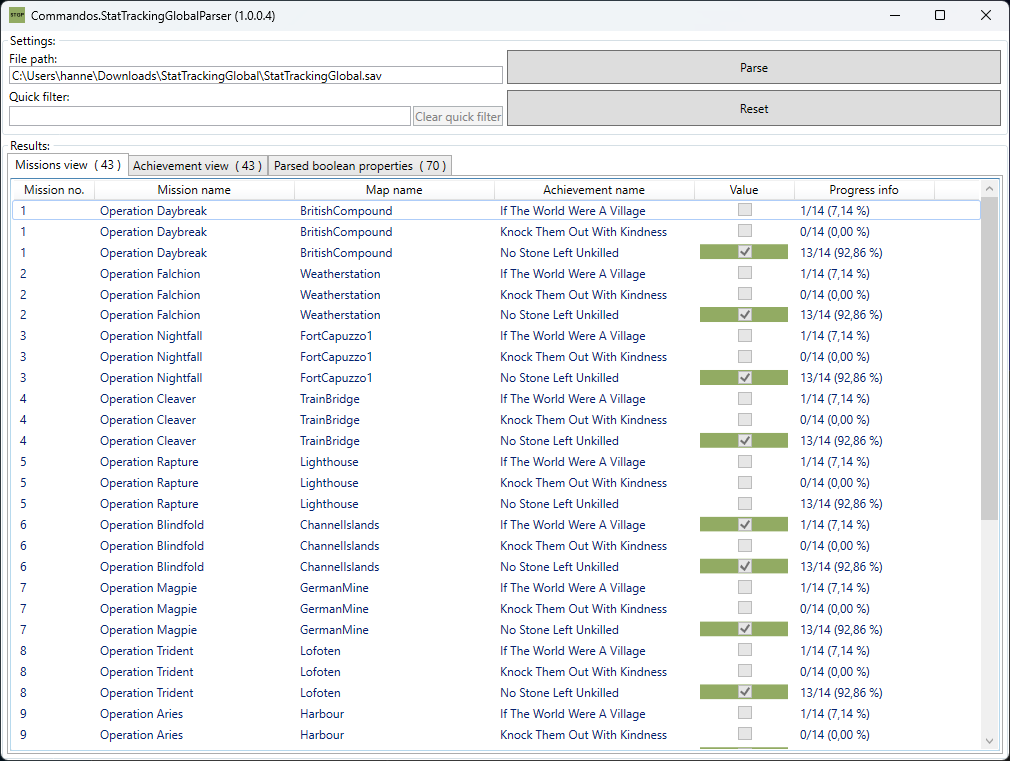
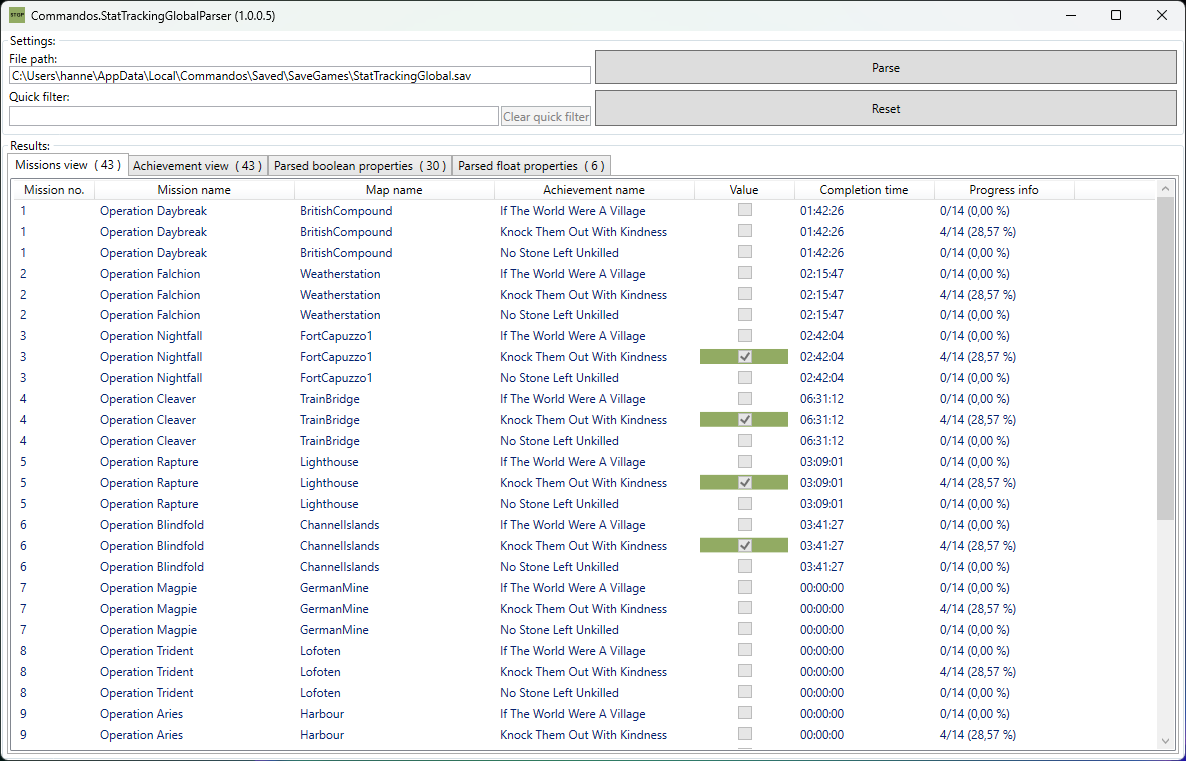
- Added parsing completion fime (FloatProperty)

diff --git a/StatTrackingGlobalParser/Views/WindowMain.xaml b/StatTrackingGlobalParser/Views/WindowMain.xaml
@@ -8,7 +8,7 @@
         xmlns:utilities="clr-namespace:StatTrackingGlobalParser.Utilities"
         mc:Ignorable="d"
         Icon="pack://application:,,,/StatTrackingGlobalParser;component/Assets/Logo.png"
-        Title="{Binding Title, FallbackValue='Commandos.StatTrackingGlobalParser'}" Height="768" Width="1024">
+        Title="{Binding Title, FallbackValue='Commandos.StatTrackingGlobalParser'}" Height="768" Width="1200">
 
     <Window.DataContext>
         <viewModels:VmWindowMain />
@@ -104,6 +104,7 @@
                                         </DataTemplate>
                                     </GridViewColumn.CellTemplate>
                                 </GridViewColumn>
+                                <GridViewColumn Header="Completion time" Width="140" DisplayMemberBinding="{Binding CompletionTime}" />
                                 <GridViewColumn Header="Progress info" Width="140" DisplayMemberBinding="{Binding ProgressInfo}" />
                             </GridView>
                         </ListView.View>
@@ -155,6 +156,7 @@
                                         </DataTemplate>
                                     </GridViewColumn.CellTemplate>
                                 </GridViewColumn>
+                                <GridViewColumn Header="Completion time" Width="140" DisplayMemberBinding="{Binding CompletionTime}" />
                                 <GridViewColumn Header="Progress info" Width="140" DisplayMemberBinding="{Binding ProgressInfo}" />
                             </GridView>
                         </ListView.View>
@@ -197,6 +199,29 @@
                                         </DataTemplate>
                                     </GridViewColumn.CellTemplate>
                                 </GridViewColumn>
+                            </GridView>
+                        </ListView.View>
+                    </ListView>
+                </TabItem>
+
+                <TabItem>
+                    <TabItem.Header>
+                        <TextBlock>
+                            <Run Text="Parsed float properties" />
+                            <Run Text=" (" />
+                            <Run Text="{Binding FloatPropertiesView.Count, Mode=OneWay, FallbackValue='0'}" />
+                            <Run Text=")" />
+                        </TextBlock>
+                    </TabItem.Header>
+                    <ListView ItemsSource="{Binding FloatPropertiesView}">
+                        <ListView.View>
+                            <GridView>
+                                <GridViewColumn Header="Map no." Width="100" DisplayMemberBinding="{Binding MapNo}" />
+                                <GridViewColumn Header="Map name" Width="200" DisplayMemberBinding="{Binding MapName}" />
+                                <GridViewColumn Header="Start index" Width="100" DisplayMemberBinding="{Binding StartIndex}" />
+                                <GridViewColumn Header="Variable name" Width="200" DisplayMemberBinding="{Binding VariableName}" />
+                                <GridViewColumn Header="Hex value" Width="240" DisplayMemberBinding="{Binding HexValue}" />
+                                <GridViewColumn Header="Value" Width="100" DisplayMemberBinding="{Binding Value}" />
                             </GridView>
                         </ListView.View>
                     </ListView>

diff --git a/StatTrackingGlobalParser/ViewModels/VmWindowMain.cs b/StatTrackingGlobalParser/ViewModels/VmWindowMain.cs
@@ -27,14 +27,18 @@ public partial class VmWindowMain : ObservableObject
 
     private const string KeyCompletionTime = "CompletionTime"; // Map data start identifier
     private const string KeyNone = "None"; // Map data end identifier
+    private const string KeyFloatProperty = "FloatProperty"; // General float property identifier
     private const string KeyBoolProperty = "BoolProperty"; // General boolean property identifier
 
     private byte[]? _fileContent;
     private int _currentParserMap;
     private string? _currentParserMapName;
 
-    private readonly int _hexValueLength = 14;
-    private readonly int _valueSkip = 9;
+    private readonly int _booleanPropertyHexValueLength = 14;
+    private readonly int _booleanPropertyValueSkip = 9;
+
+    private readonly int _floatPropertyHexValueLength = 14;
+    private readonly int _floatPropertyValueSkip = 10;
 
     #endregion
 
@@ -46,6 +50,12 @@ public partial class VmWindowMain : ObservableObject
     [ObservableProperty]
     [NotifyCanExecuteChangedFor(nameof(ParseCommand))]
     private string _filePath = Path.Combine(Environment.GetFolderPath(Environment.SpecialFolder.LocalApplicationData), "Commandos\\Saved\\SaveGames\\StatTrackingGlobal.sav");
+
+    [ObservableProperty]
+    private ObservableCollection<FloatPropertyModel>? _floatProperties = [];
+
+    [ObservableProperty]
+    private ICollectionView? _floatPropertiesView;
 
     [ObservableProperty]
     private ObservableCollection<BoolPropertyModel>? _boolProperties = [];
@@ -86,12 +96,7 @@ public partial class VmWindowMain : ObservableObject
             _currentParserMapName = null;
 
             // Initialize collections
-            BoolProperties = [];
-            BoolPropertiesView = CollectionViewSource.GetDefaultView(BoolProperties);
-            Achievements = [];
-            AchievementsView = CollectionViewSource.GetDefaultView(Achievements);
-            Missions = [];
-            MissionsView = CollectionViewSource.GetDefaultView(Missions);
+            InitializeCollections();
 
             // Start parsing
             ReadFileContent();
@@ -125,12 +130,7 @@ public partial class VmWindowMain : ObservableObject
         try
         {
             // Initialize collections
-            BoolProperties = [];
-            BoolPropertiesView = CollectionViewSource.GetDefaultView(BoolProperties);
-            Achievements = [];
-            AchievementsView = CollectionViewSource.GetDefaultView(Achievements);
-            Missions = [];
-            MissionsView = CollectionViewSource.GetDefaultView(Missions);
+            InitializeCollections();
         }
         catch (Exception ex)
         {
@@ -180,6 +180,18 @@ public partial class VmWindowMain : ObservableObject
 
     #region Methods
 
+    private void InitializeCollections()
+    {
+        FloatProperties = [];
+        FloatPropertiesView = CollectionViewSource.GetDefaultView(FloatProperties);
+        BoolProperties = [];
+        BoolPropertiesView = CollectionViewSource.GetDefaultView(BoolProperties);
+        Achievements = [];
+        AchievementsView = CollectionViewSource.GetDefaultView(Achievements);
+        Missions = [];
+        MissionsView = CollectionViewSource.GetDefaultView(Missions);
+    }
+
     private void ReadFileContent()
     {
         _fileContent = File.ReadAllBytes(FilePath);
@@ -193,7 +205,34 @@ public partial class VmWindowMain : ObservableObject
         {
             _currentParserMap++;
             _currentParserMapName = ParseHelper.ParseNameFromStartIndex(_fileContent, First, false);
+            ParseFloatProperties(First, Second);
             ParseBoolProperties(First, Second);
+        }
+    }
+
+    private void ParseFloatProperties(int startIndex, int endIndex)
+    {
+        if (_fileContent is null || _fileContent.Length == 0) { throw new InvalidDataException($"No file content present in file: {FilePath}"); }
+
+        var fileContentArea = _fileContent.AsSpan(startIndex, endIndex - startIndex).ToArray();
+
+        foreach (int index in ParseHelper.PatternAt(fileContentArea, Encoding.UTF8.GetBytes(KeyFloatProperty)))
+        {
+            var variableName = ParseHelper.ParseNameFromStartIndex(fileContentArea, index, false);
+            var hexValue = BitConverter.ToString(fileContentArea.AsSpan(index + KeyFloatProperty.Length, _floatPropertyHexValueLength).ToArray()).Replace('-', '.');
+            var value = BitConverter.ToSingle(fileContentArea.AsSpan(index + KeyFloatProperty.Length, _floatPropertyHexValueLength).ToArray().Skip(_floatPropertyValueSkip).Take(4).ToArray());
+
+            var floatPropertyModel = new FloatPropertyModel()
+            {
+                MapNo = _currentParserMap,
+                MapName = _currentParserMapName,
+                StartIndex = index,
+                VariableName = variableName,
+                HexValue = hexValue,
+                Value = value
+            };
+
+            FloatProperties?.Add(floatPropertyModel);
         }
     }
 
@@ -206,8 +245,8 @@ public partial class VmWindowMain : ObservableObject
         foreach (int index in ParseHelper.PatternAt(fileContentArea, Encoding.UTF8.GetBytes(KeyBoolProperty)))
         {
             var variableName = ParseHelper.ParseNameFromStartIndex(fileContentArea, index, false);
-            var hexValue = BitConverter.ToString(fileContentArea.AsSpan(index + KeyBoolProperty.Length, _hexValueLength).ToArray()).Replace('-', '.');
-            var value = fileContentArea.AsSpan(index + KeyBoolProperty.Length, _hexValueLength).ToArray().Skip(_valueSkip).Take(1).ToArray();
+            var hexValue = BitConverter.ToString(fileContentArea.AsSpan(index + KeyBoolProperty.Length, _booleanPropertyHexValueLength).ToArray()).Replace('-', '.');
+            var value = fileContentArea.AsSpan(index + KeyBoolProperty.Length, _booleanPropertyHexValueLength).ToArray().Skip(_booleanPropertyValueSkip).Take(1).ToArray();
 
             var boolPropertyModel = new BoolPropertyModel()
             {
@@ -252,6 +291,7 @@ public partial class VmWindowMain : ObservableObject
                 };
 
                 EvaluateReachedAchievementValue(achievementModel);
+                EvaluateCompletionTime(achievementModel);
 
                 achievements.Add(achievementModel);
             }
@@ -291,6 +331,7 @@ public partial class VmWindowMain : ObservableObject
                 };
 
                 EvaluateReachedAchievementValue(achievementMissionModel);
+                EvaluateCompletionTime(achievementMissionModel);
 
                 missions.Add(achievementMissionModel);
             }
@@ -341,7 +382,21 @@ public partial class VmWindowMain : ObservableObject
         }
     }
 
-    private void EvaluateReachedAchievements(List<AchievementMissionModel> achievementMissionModels)
+    private void EvaluateCompletionTime(AchievementMissionModel achievementMissionModel)
+    {
+        var completionTime = FloatProperties?.FirstOrDefault(x => x.MapName == achievementMissionModel.MapName && x.VariableName == KeyCompletionTime)?.Value;
+
+        if (completionTime is null)
+        {
+            achievementMissionModel.CompletionTime = $"{TimeSpan.FromSeconds(0)}";
+        }
+        else
+        {
+            achievementMissionModel.CompletionTime = $"{TimeSpan.FromSeconds(Convert.ToDouble(completionTime))}";
+        }
+    }
+
+    private static void EvaluateReachedAchievements(List<AchievementMissionModel> achievementMissionModels)
     {
         foreach (var achievementName in KnownDataHelper.AchievementNameAchievementToolTipMappings.Keys)
         {
@@ -413,7 +468,13 @@ public partial class VmWindowMain : ObservableObject
     }
 
     private void UpdateViewsWithFilter(string? value)
-    {
+    {       
+        if (FloatPropertiesView is not null)
+        {
+            FloatPropertiesView.Filter = o => string.IsNullOrEmpty(value) || $"{o}".Contains(value, StringComparison.CurrentCultureIgnoreCase);
+            FloatPropertiesView.Refresh();
+        }
+
         if (BoolPropertiesView is not null)
         {
             BoolPropertiesView.Filter = o => string.IsNullOrEmpty(value) || $"{o}".Contains(value, StringComparison.CurrentCultureIgnoreCase);

diff --git a/StatTrackingGlobalParser/Utilities/ParseHelper.cs b/StatTrackingGlobalParser/Utilities/ParseHelper.cs
@@ -44,9 +44,12 @@ public static class ParseHelper
 
         while (true)
         {
+            if (currentIndex < 0) {  break; }
+
             // Skip some non-printable character values
             if (!firstStringCharacterFound && source[currentIndex] == 0x00 || 
                 !firstStringCharacterFound && source[currentIndex] == 0x0D ||
+                !firstStringCharacterFound && source[currentIndex] == 0x0E ||
                 !firstStringCharacterFound && source[currentIndex] == 0x0F)
             {
                 if (direction)
@@ -64,6 +67,7 @@ public static class ParseHelper
             // Skip some non-printable character values
             if (firstStringCharacterFound && source[currentIndex] == 0x00 || 
                 firstStringCharacterFound && source[currentIndex] == 0x0D ||
+                firstStringCharacterFound && source[currentIndex] == 0x0E ||
                 firstStringCharacterFound && source[currentIndex] == 0x0F)
             {
                 break;

diff --git a/StatTrackingGlobalParser/Models/FloatPropertyModel.cs b/StatTrackingGlobalParser/Models/FloatPropertyModel.cs
@@ -1,0 +1,29 @@
+namespace StatTrackingGlobalParser.Models;
+
+public class FloatPropertyModel
+{
+    #region Overrides
+
+    public override string ToString()
+    {
+        return $"[MapNo='{MapNo}', MapName='{MapName}', StartIndex='{StartIndex}', VariableName='{VariableName}', HexValue='{HexValue}', Value='{Value}']";
+    }
+
+    #endregion
+
+    #region Properties
+
+    public int MapNo { get; set; }
+
+    public string? MapName { get; set; }
+
+    public int StartIndex { get; set; }
+
+    public string? VariableName { get; set; }
+
+    public string? HexValue { get; set; }
+
+    public float Value { get; set; }
+
+    #endregion
+}

diff --git a/StatTrackingGlobalParser/Models/AchievementMissionModel.cs b/StatTrackingGlobalParser/Models/AchievementMissionModel.cs
@@ -23,6 +23,8 @@ public class AchievementMissionModel
 
     public bool Value { get; set; }
 
+    public string? CompletionTime { get; set; }
+
     public string? ProgressInfo { get; set; }
 
     public string? AchievementToolTip { get; set; }

diff --git a/README.md b/README.md
@@ -9,3 +9,5 @@ A small UI tool parsing commandos achievements.
 ![Preview](Images/Preview1.png)
 
 ![Preview](Images/Preview2.png)
+
+![Preview](Images/Preview3.png)
